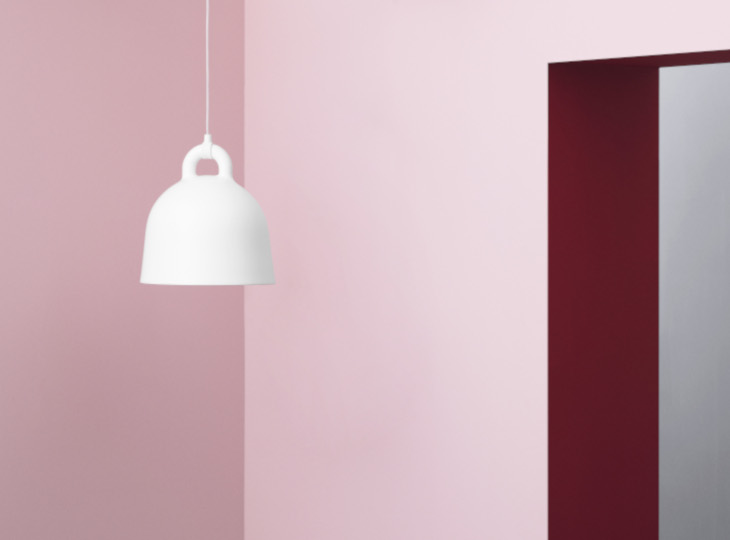
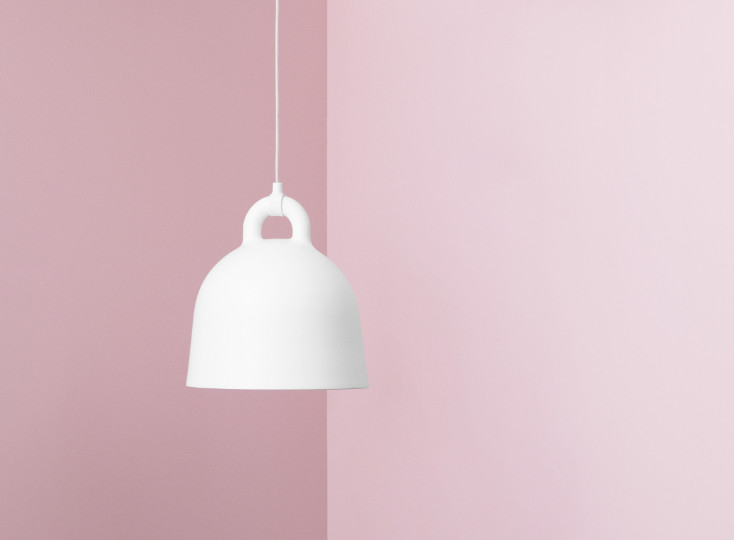
Crop Pictures

diff --git a/index.html b/index.html
@@ -121,7 +121,7 @@
 
                     <div class="col-sm-6">
                         <figure class="entry-image">
-                            <img  src="pic/pic6.jpg"  class="img-fluid fit-image"/>
+                            <img  src="pic/pic6.jpg"  class="img-fluid"/>
                         </figure>
                     </div>
 

diff --git a/style.css b/style.css
@@ -87,11 +87,7 @@ box-size{
     height:20;
 }
 
-.fit-image{
-    width: 100%;
-    object-fit: cover;
-    height: 300px;
-    }
+
 
 
 
